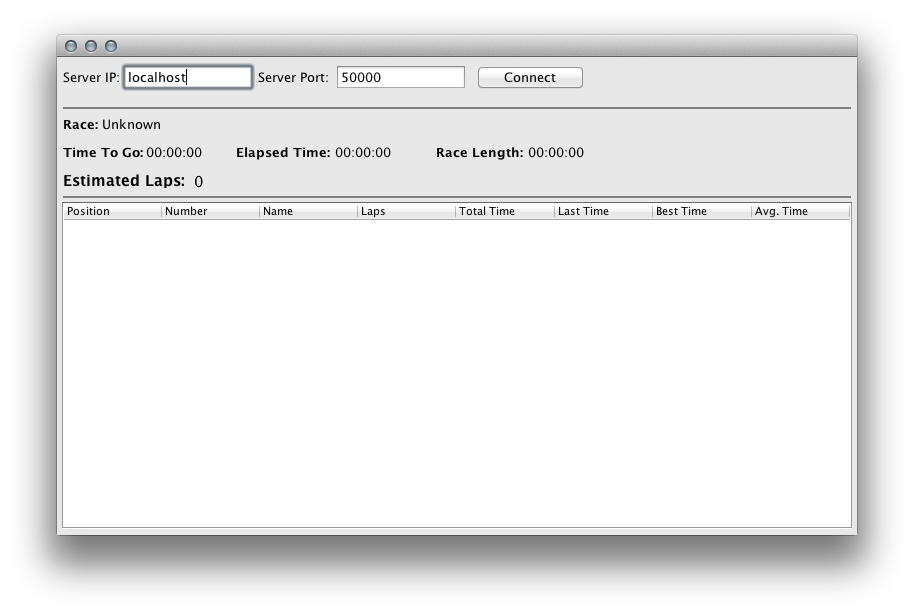
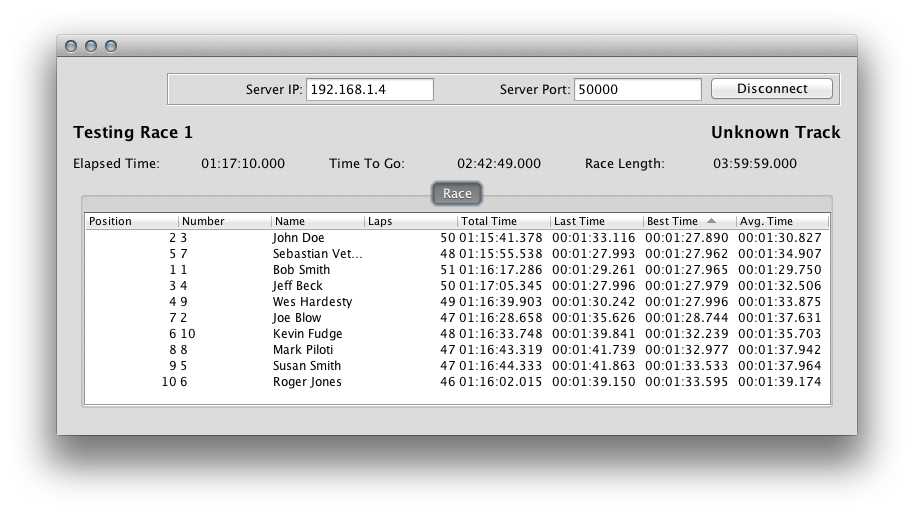
Finished bestLap / avgLap and updated UI for same

Changed region(s): [[0.0613, 0.0623, 0.9497, 0.9339], [0.7659, 0.249, 0.919, 0.2802]]

diff --git a/src/com/zacharyfox/rmonitor/entities/Competitor.java b/src/com/zacharyfox/rmonitor/entities/Competitor.java
@@ -5,6 +5,7 @@ import java.beans.PropertyChangeSupport;
 import java.util.HashMap;
 
 import com.zacharyfox.rmonitor.message.CompInfo;
+import com.zacharyfox.rmonitor.message.LapInfo;
 import com.zacharyfox.rmonitor.message.RMonitorMessage;
 import com.zacharyfox.rmonitor.message.RaceInfo;
 import com.zacharyfox.rmonitor.utils.Duration;
@@ -12,10 +13,13 @@ import com.zacharyfox.rmonitor.utils.Duration;
 public class Competitor
 {
 	private String addData = "";
+	private Duration bestLap = new Duration(0);
 	private PropertyChangeSupport changeSupport = new PropertyChangeSupport(this);
 	private int classId = 0;
 	private String firstName = "";
-	private int laps = 0;
+	private HashMap<Integer, Object[]> laps = new HashMap<Integer, Object[]>();
+	private int lapsComplete = 0;
+	private Duration lastLap = new Duration(0);
 	private String lastName = "";
 	private String nationality = "";
 	private String number = "";
@@ -45,6 +49,18 @@ public class Competitor
 		return addData;
 	}
 
+	public Object getAvgLap()
+	{
+		Float avgLap = (Float) (totalTime.toFloat() / lapsComplete);
+		System.out.println(avgLap);
+		return new Duration((Float) (totalTime.toFloat() / lapsComplete));
+	}
+
+	public Duration getBestLap()
+	{
+		return bestLap;
+	}
+
 	public int getClassId()
 	{
 		return classId;
@@ -55,9 +71,19 @@ public class Competitor
 		return firstName;
 	}
 
-	public int getLaps()
+	public HashMap<Integer, Object[]> getLaps()
 	{
 		return laps;
+	}
+
+	public int getLapsComplete()
+	{
+		return lapsComplete;
+	}
+
+	public Duration getLastLap()
+	{
+		return lastLap;
 	}
 
 	public String getLastName()
@@ -105,18 +131,6 @@ public class Competitor
 		changeSupport.removePropertyChangeListener(property, l);
 	}
 
-	public void setLaps(int laps)
-	{
-		changeSupport.firePropertyChange("laps", this.laps, laps);
-		this.laps = laps;
-	}
-
-	public void setTotalTime(Duration totalTime)
-	{
-		changeSupport.firePropertyChange("totalTime", this.totalTime, totalTime);
-		this.totalTime = totalTime;
-	}
-
 	@Override
 	public String toString()
 	{
@@ -129,8 +143,15 @@ public class Competitor
 		string += "Transponder Number: " + transNumber + "\n";
 		string += "Class ID: " + classId + "\n";
 		string += "Position: " + position + "\n";
-		string += "Laps: " + laps + "\n";
+		string += "Laps: " + lapsComplete + "\n";
 		string += "Total Time: " + totalTime + "\n";
+		string += "Best Time: " + bestLap + "\n";
+
+		string += "Laps: \n";
+
+		for (Object[] lap : laps.values()) {
+			string += lap[0] + " " + lap[1] + " " + lap[2] + "\n";
+		}
 
 		return string;
 	}
@@ -150,11 +171,28 @@ public class Competitor
 			this.setAddData(message.getAddInfo());
 	}
 
+	private void messageUpdate(LapInfo message)
+	{
+		// System.out.println("Got Lap Info " + this.regNumber + " " +
+		// message.getLapNumber());
+		this.laps.put(message.getLapNumber(), new Object[] {
+			message.getLapNumber(), message.getPosition(), message.getLapTime()
+		});
+		
+		if (message.getLapNumber() == lapsComplete) {
+			setLastLap(message.getLapTime());
+		}
+
+		setBestLap(message.getLapTime());
+
+		System.out.println(this);
+	}
+
 	private void messageUpdate(RaceInfo message)
 	{
 		this.setRegNumber(message.getRegNumber());
 		this.setPosition(message.getPosition());
-		this.setLaps(message.getLaps());
+		this.setLapsComplete(message.getLaps());
 		this.setTotalTime(message.getTotalTime());
 	}
 
@@ -162,6 +200,15 @@ public class Competitor
 	{
 		changeSupport.firePropertyChange("addData", this.addData, addData);
 		this.addData = addData;
+	}
+
+	private void setBestLap(Duration bestLap)
+	{
+		if (this.bestLap.toInt() == 0 || bestLap.toFloat() < this.bestLap.toFloat()) {
+			Duration oldBestLap = this.bestLap;
+			this.bestLap = bestLap;
+			changeSupport.firePropertyChange("bestLap", oldBestLap, this.bestLap);
+		}
 	}
 
 	private void setClassId(int classId)
@@ -175,6 +222,20 @@ public class Competitor
 		String oldName = this.firstName;
 		this.firstName = firstName;
 		changeSupport.firePropertyChange("firstName", oldName, firstName);
+	}
+
+	private void setLapsComplete(int lapsComplete)
+	{
+		int oldLapsComplete = this.lapsComplete;
+		this.lapsComplete = lapsComplete;
+		changeSupport.firePropertyChange("laps", oldLapsComplete, this.lapsComplete);
+	}
+
+	private void setLastLap(Duration lastLap)
+	{
+		Duration oldLastLap = this.lastLap;
+		this.lastLap = lastLap;
+		changeSupport.firePropertyChange("lastLap", oldLastLap, this.lastLap);
 	}
 
 	private void setLastName(String lastName)
@@ -205,6 +266,13 @@ public class Competitor
 	{
 		changeSupport.firePropertyChange("regNumber", this.regNumber, regNumber);
 		this.regNumber = regNumber;
+	}
+
+	private void setTotalTime(Duration totalTime)
+	{
+		Duration oldTotalTime = this.totalTime;
+		this.totalTime = totalTime;
+		changeSupport.firePropertyChange("totalTime", oldTotalTime, this.totalTime);
 	}
 
 	private void setTransNumber(int transNumber)
@@ -248,6 +316,10 @@ public class Competitor
 
 		if (message.getClass() == CompInfo.class) {
 			instance.messageUpdate((CompInfo) message);
+		}
+
+		if (message.getClass() == LapInfo.class) {
+			instance.messageUpdate((LapInfo) message);
 		}
 
 		instances.put(instance.getRegNumber(), instance);

diff --git a/src/com/zacharyfox/rmonitor/entities/Race.java b/src/com/zacharyfox/rmonitor/entities/Race.java
@@ -5,6 +5,7 @@ import java.beans.PropertyChangeSupport;
 
 import com.zacharyfox.rmonitor.message.CompInfo;
 import com.zacharyfox.rmonitor.message.Heartbeat;
+import com.zacharyfox.rmonitor.message.LapInfo;
 import com.zacharyfox.rmonitor.message.RMonitorMessage;
 import com.zacharyfox.rmonitor.message.RaceInfo;
 import com.zacharyfox.rmonitor.message.RunInfo;
@@ -64,7 +65,7 @@ public class Race
 
 		if (leader != null) {
 			string += "Leader: " + leader.getRegNumber() + "\n";
-			string += "Leader Laps: " + leader.getLaps() + "\n";
+			string += "Leader Laps: " + leader.getLapsComplete() + "\n";
 			string += "Leader Total Time: " + leader.getTotalTime() + "\n";
 		}
 
@@ -82,7 +83,9 @@ public class Race
 				this.messageUpdate((RunInfo) message);
 			}
 
-			if (message.getClass() == RaceInfo.class || message.getClass() == CompInfo.class) {
+			if (message.getClass() == RaceInfo.class
+					|| message.getClass() == CompInfo.class
+					|| message.getClass() == LapInfo.class) {
 				Competitor.updateOrCreate(message);
 				setCompetitorsVersion();
 			}

diff --git a/src/com/zacharyfox/rmonitor/leaderboard/Table.java b/src/com/zacharyfox/rmonitor/leaderboard/Table.java
@@ -72,8 +72,8 @@ public class Table extends AbstractTableModel
 	{
 		return new Object[] {
 			competitor.getPosition(), competitor.getRegNumber(),
-			competitor.getFirstName() + " " + competitor.getLastName(), competitor.getLaps(),
-			competitor.getTotalTime(), "", "", "", ""
+			competitor.getFirstName() + " " + competitor.getLastName(), competitor.getLapsComplete(),
+			competitor.getTotalTime(), competitor.getLastLap(), competitor.getBestLap(), competitor.getAvgLap(), ""
 		};
 	}
 }

diff --git a/src/com/zacharyfox/rmonitor/message/Factory.java b/src/com/zacharyfox/rmonitor/message/Factory.java
@@ -37,6 +37,7 @@ public abstract class Factory
 		Class<?> messageClass = classMap.get(tokens[0]);
 
 		try {
+			if (messageClass == LapInfo.class) System.out.println(line);
 			Constructor<?> constructor = messageClass.getDeclaredConstructor(String[].class);
 			return (M) constructor.newInstance(new Object[] {
 				tokens

diff --git a/src/com/zacharyfox/rmonitor/message/LapInfo.java b/src/com/zacharyfox/rmonitor/message/LapInfo.java
@@ -13,7 +13,7 @@ public class LapInfo extends RMonitorMessage
 	{
 		position = Integer.parseInt(tokens[1]);
 		regNumber = tokens[2];
-		lapNumber = Integer.parseInt(tokens[3]);
+		lapNumber = (tokens[3] == "") ? 0 : Integer.parseInt(tokens[3]);
 		lapTime = new Duration(tokens[4]);
 	}
 
